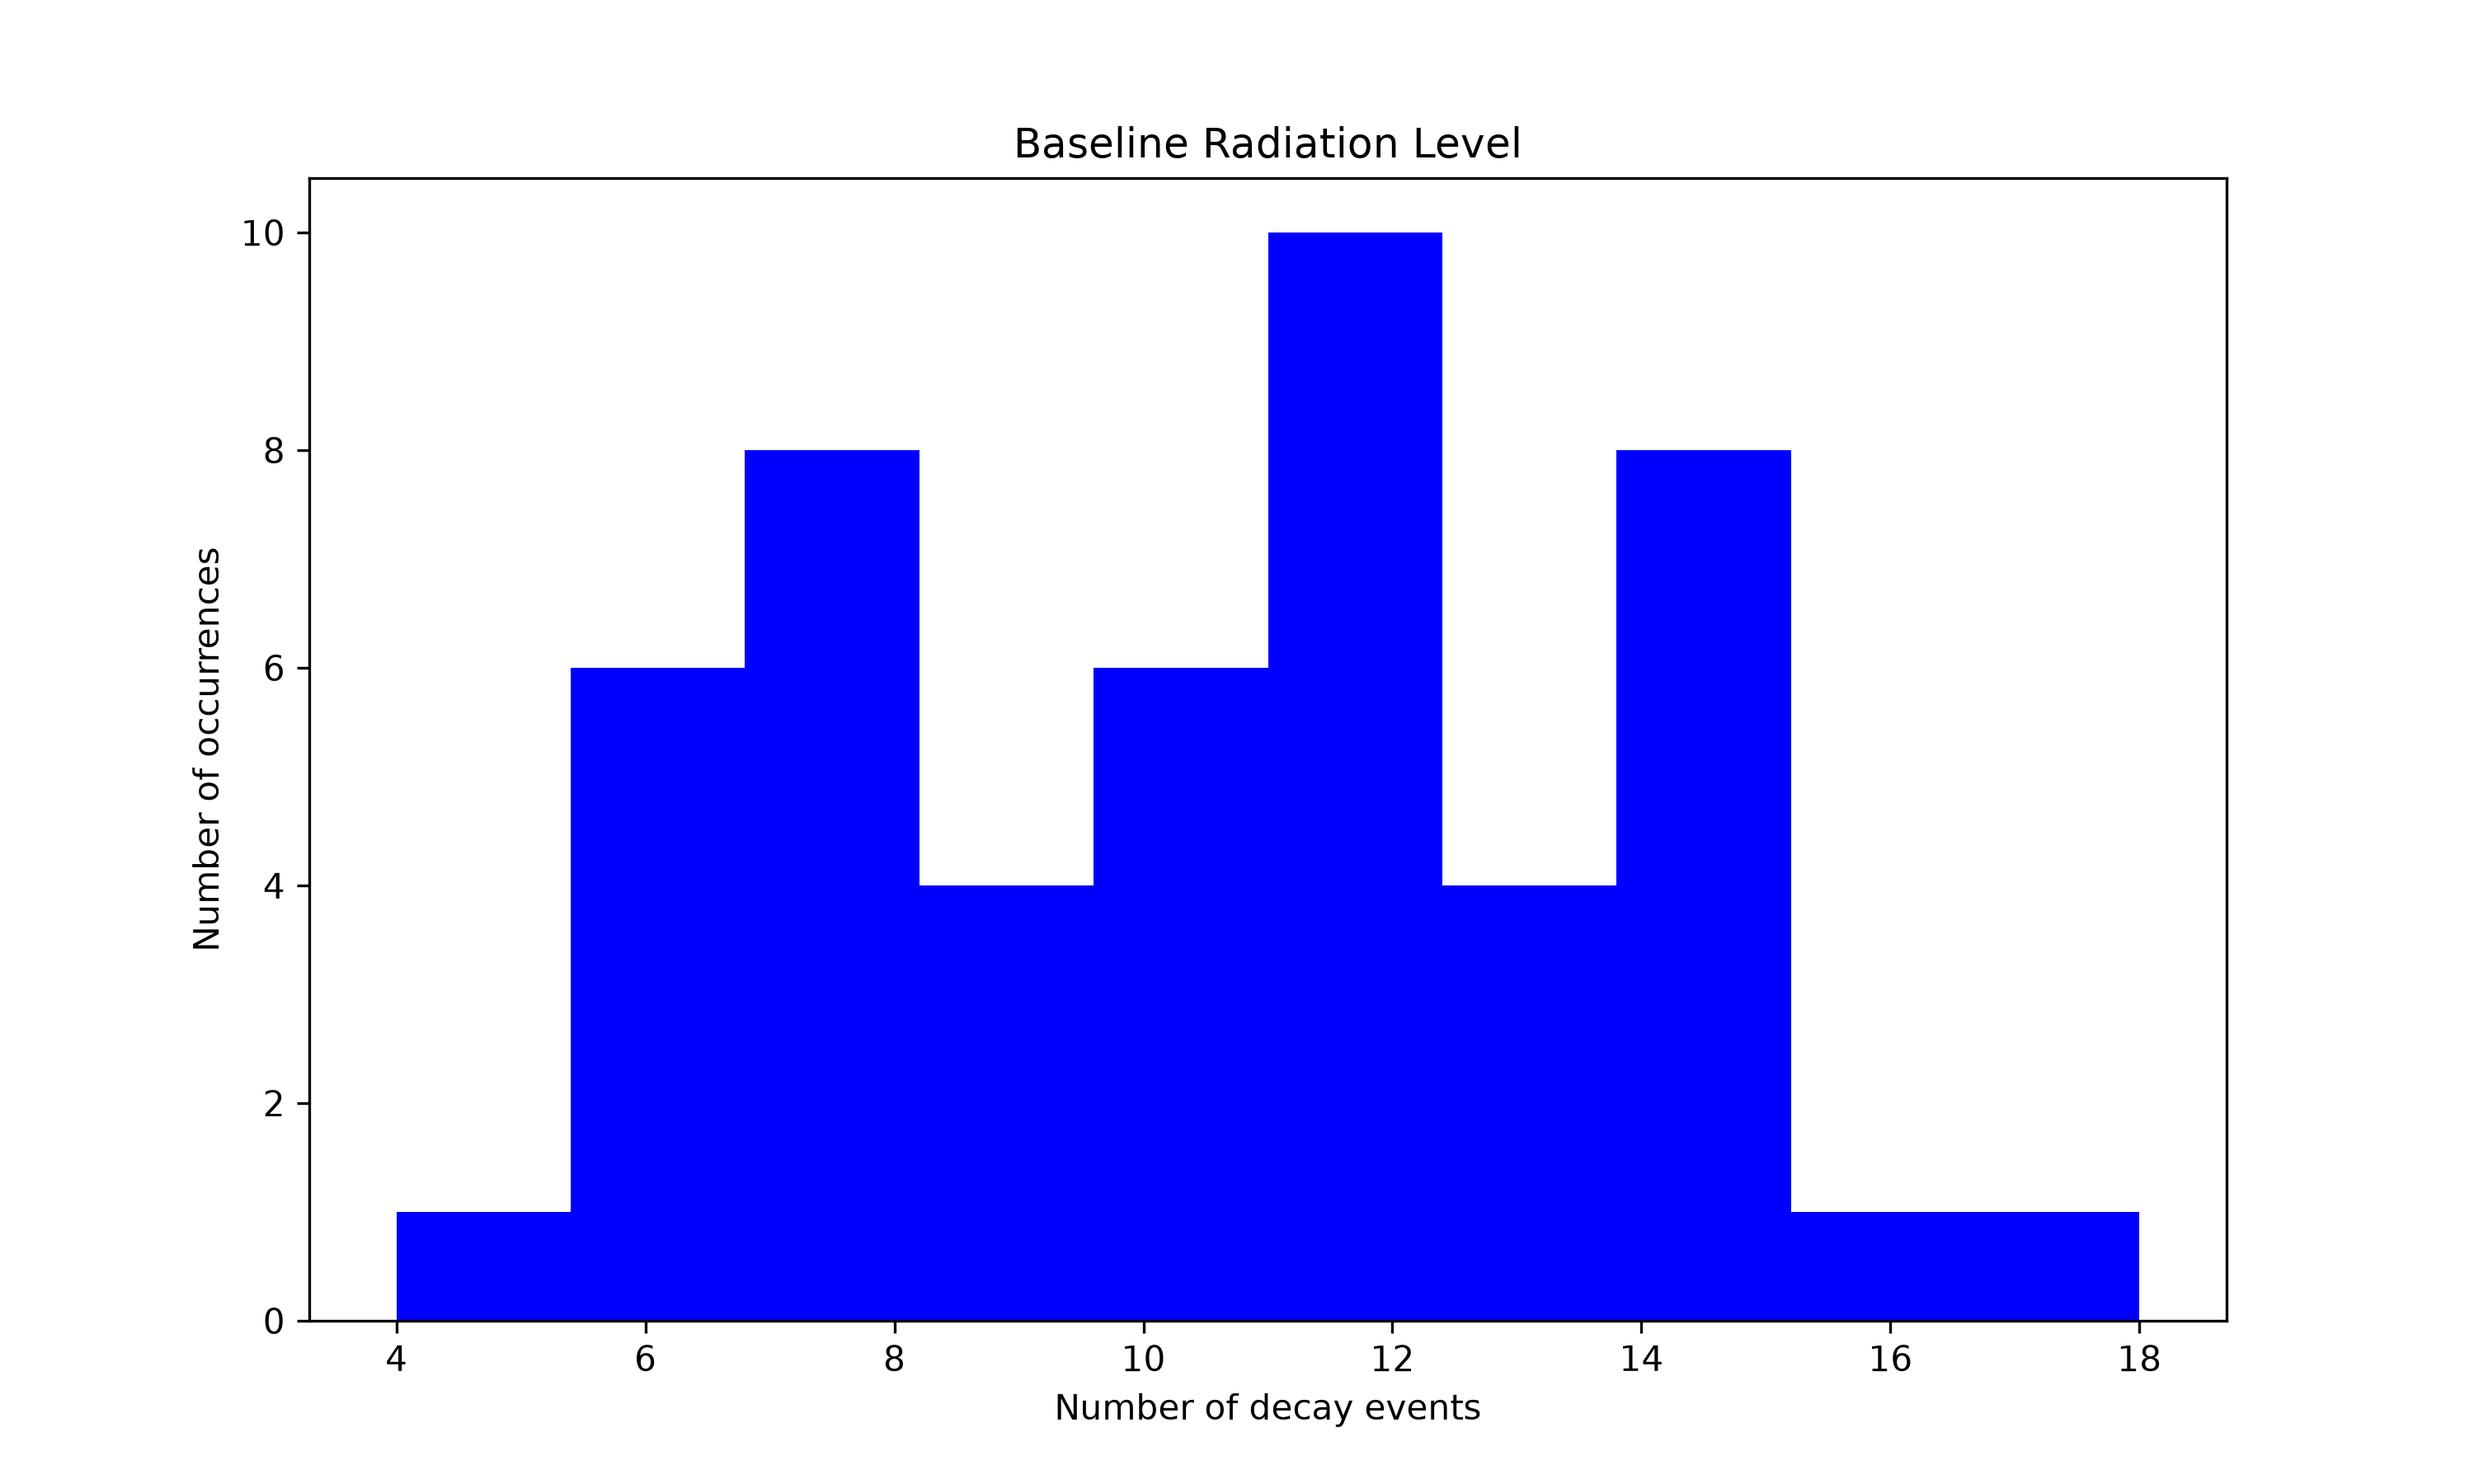
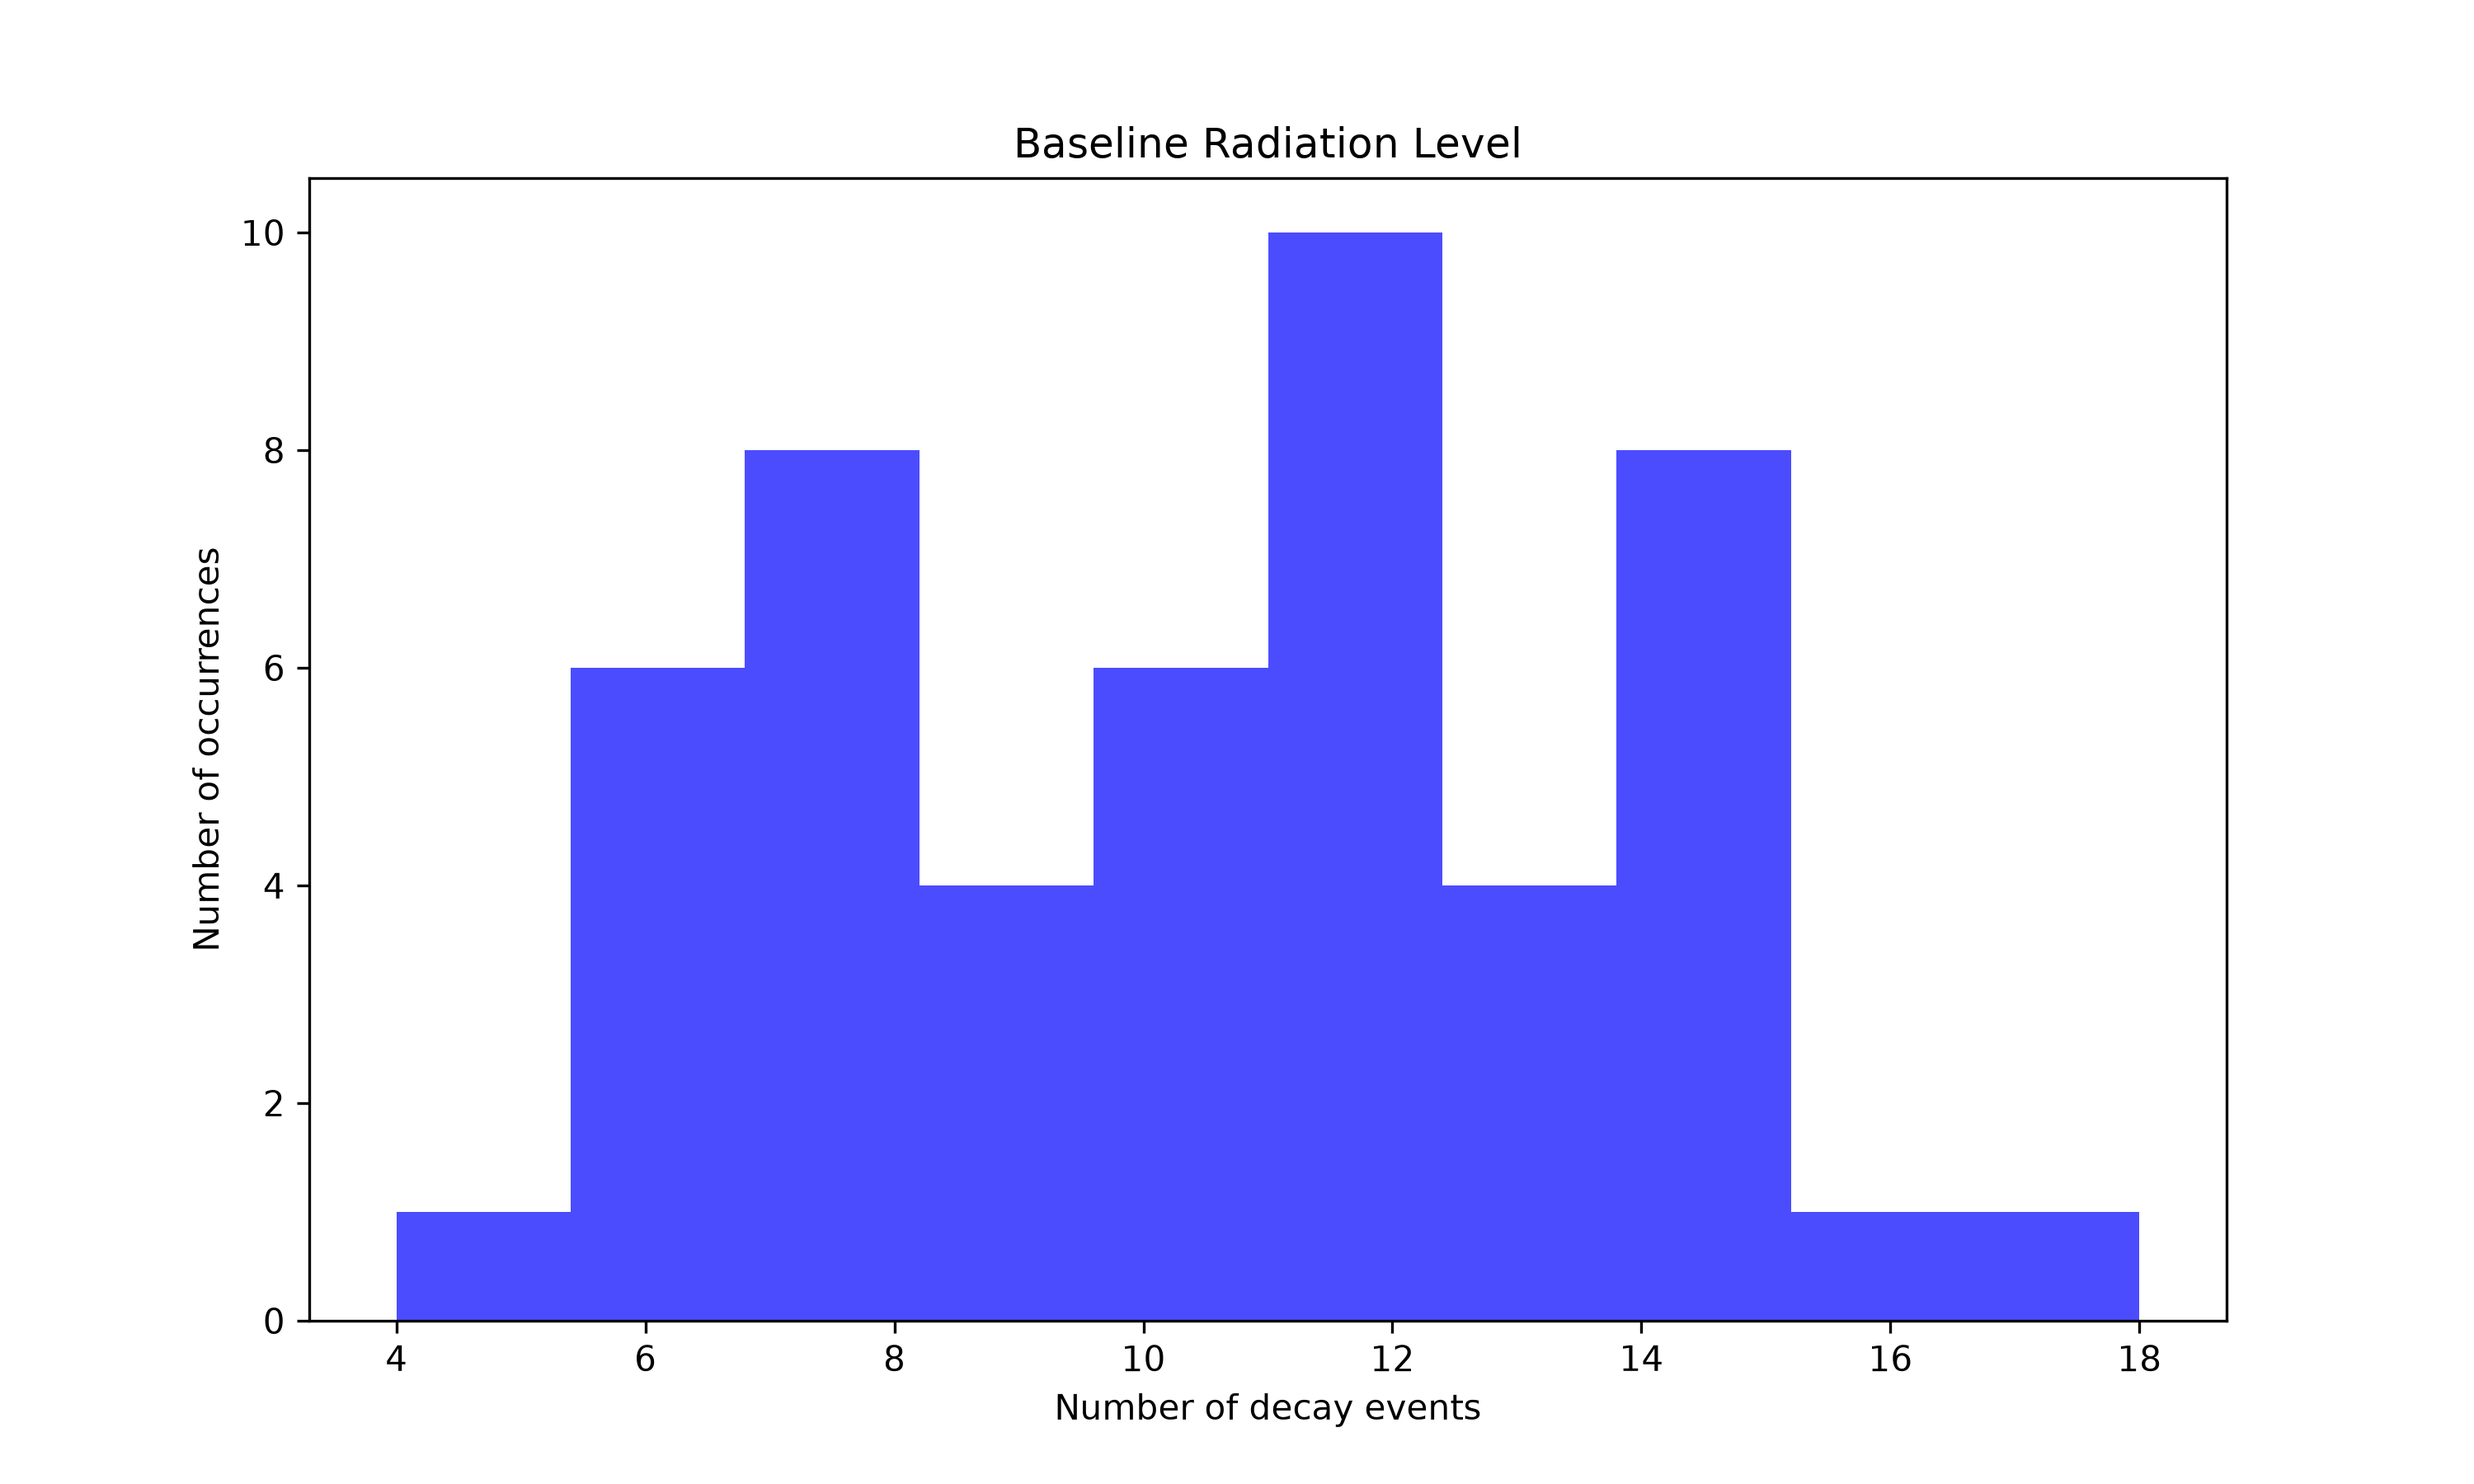
adjusted graphs

Changed region(s): [[0.155, 0.1556, 0.868, 0.9022]]

diff --git a/main.py b/main.py
@@ -16,7 +16,7 @@ bss = np.std(base)
 print(bsm,bss)
 
 plt.figure(figsize=(10, 6))
-plt.hist(base, label='Base', color='blue')
+plt.hist(base, alpha=0.7, label='Base', color='blue')
 plt.xlabel('Number of decay events')
 plt.ylabel('Number of occurrences')
 plt.title('Baseline Radiation Level')
@@ -28,7 +28,7 @@ css = np.std(caesium)
 print(csm,css)
 
 plt.figure(figsize=(10, 6))
-plt.hist(caesium, label='Caesium-137', color='green')
+plt.hist(caesium, alpha=0.7, label='Caesium-137', color='green')
 plt.xlabel('Number of decay events')
 plt.ylabel('Number of occurrences')
 plt.title('Caesium-137 Decay')
@@ -47,9 +47,11 @@ thalf = np.log(2)/dp
 dhalf = (np.log(2)/dp**2)*delp
 print(thalf, dhalf)
 
+trand = np.linspace(0, np.max(btime), 1000)
+
 plt.figure(figsize=(10, 6))
 plt.scatter(btime, barium, label='Barium-137', color='red')
-plt.plot(btime, decay(btime, *popt), label='Fitted Curve', color='black')
+plt.plot(trand, decay(trand, *popt), label='Fitted Curve', color='black')
 plt.xlabel('Time (s)')
 plt.ylabel('Decay events')
 plt.title('Barium-137 Decay')
